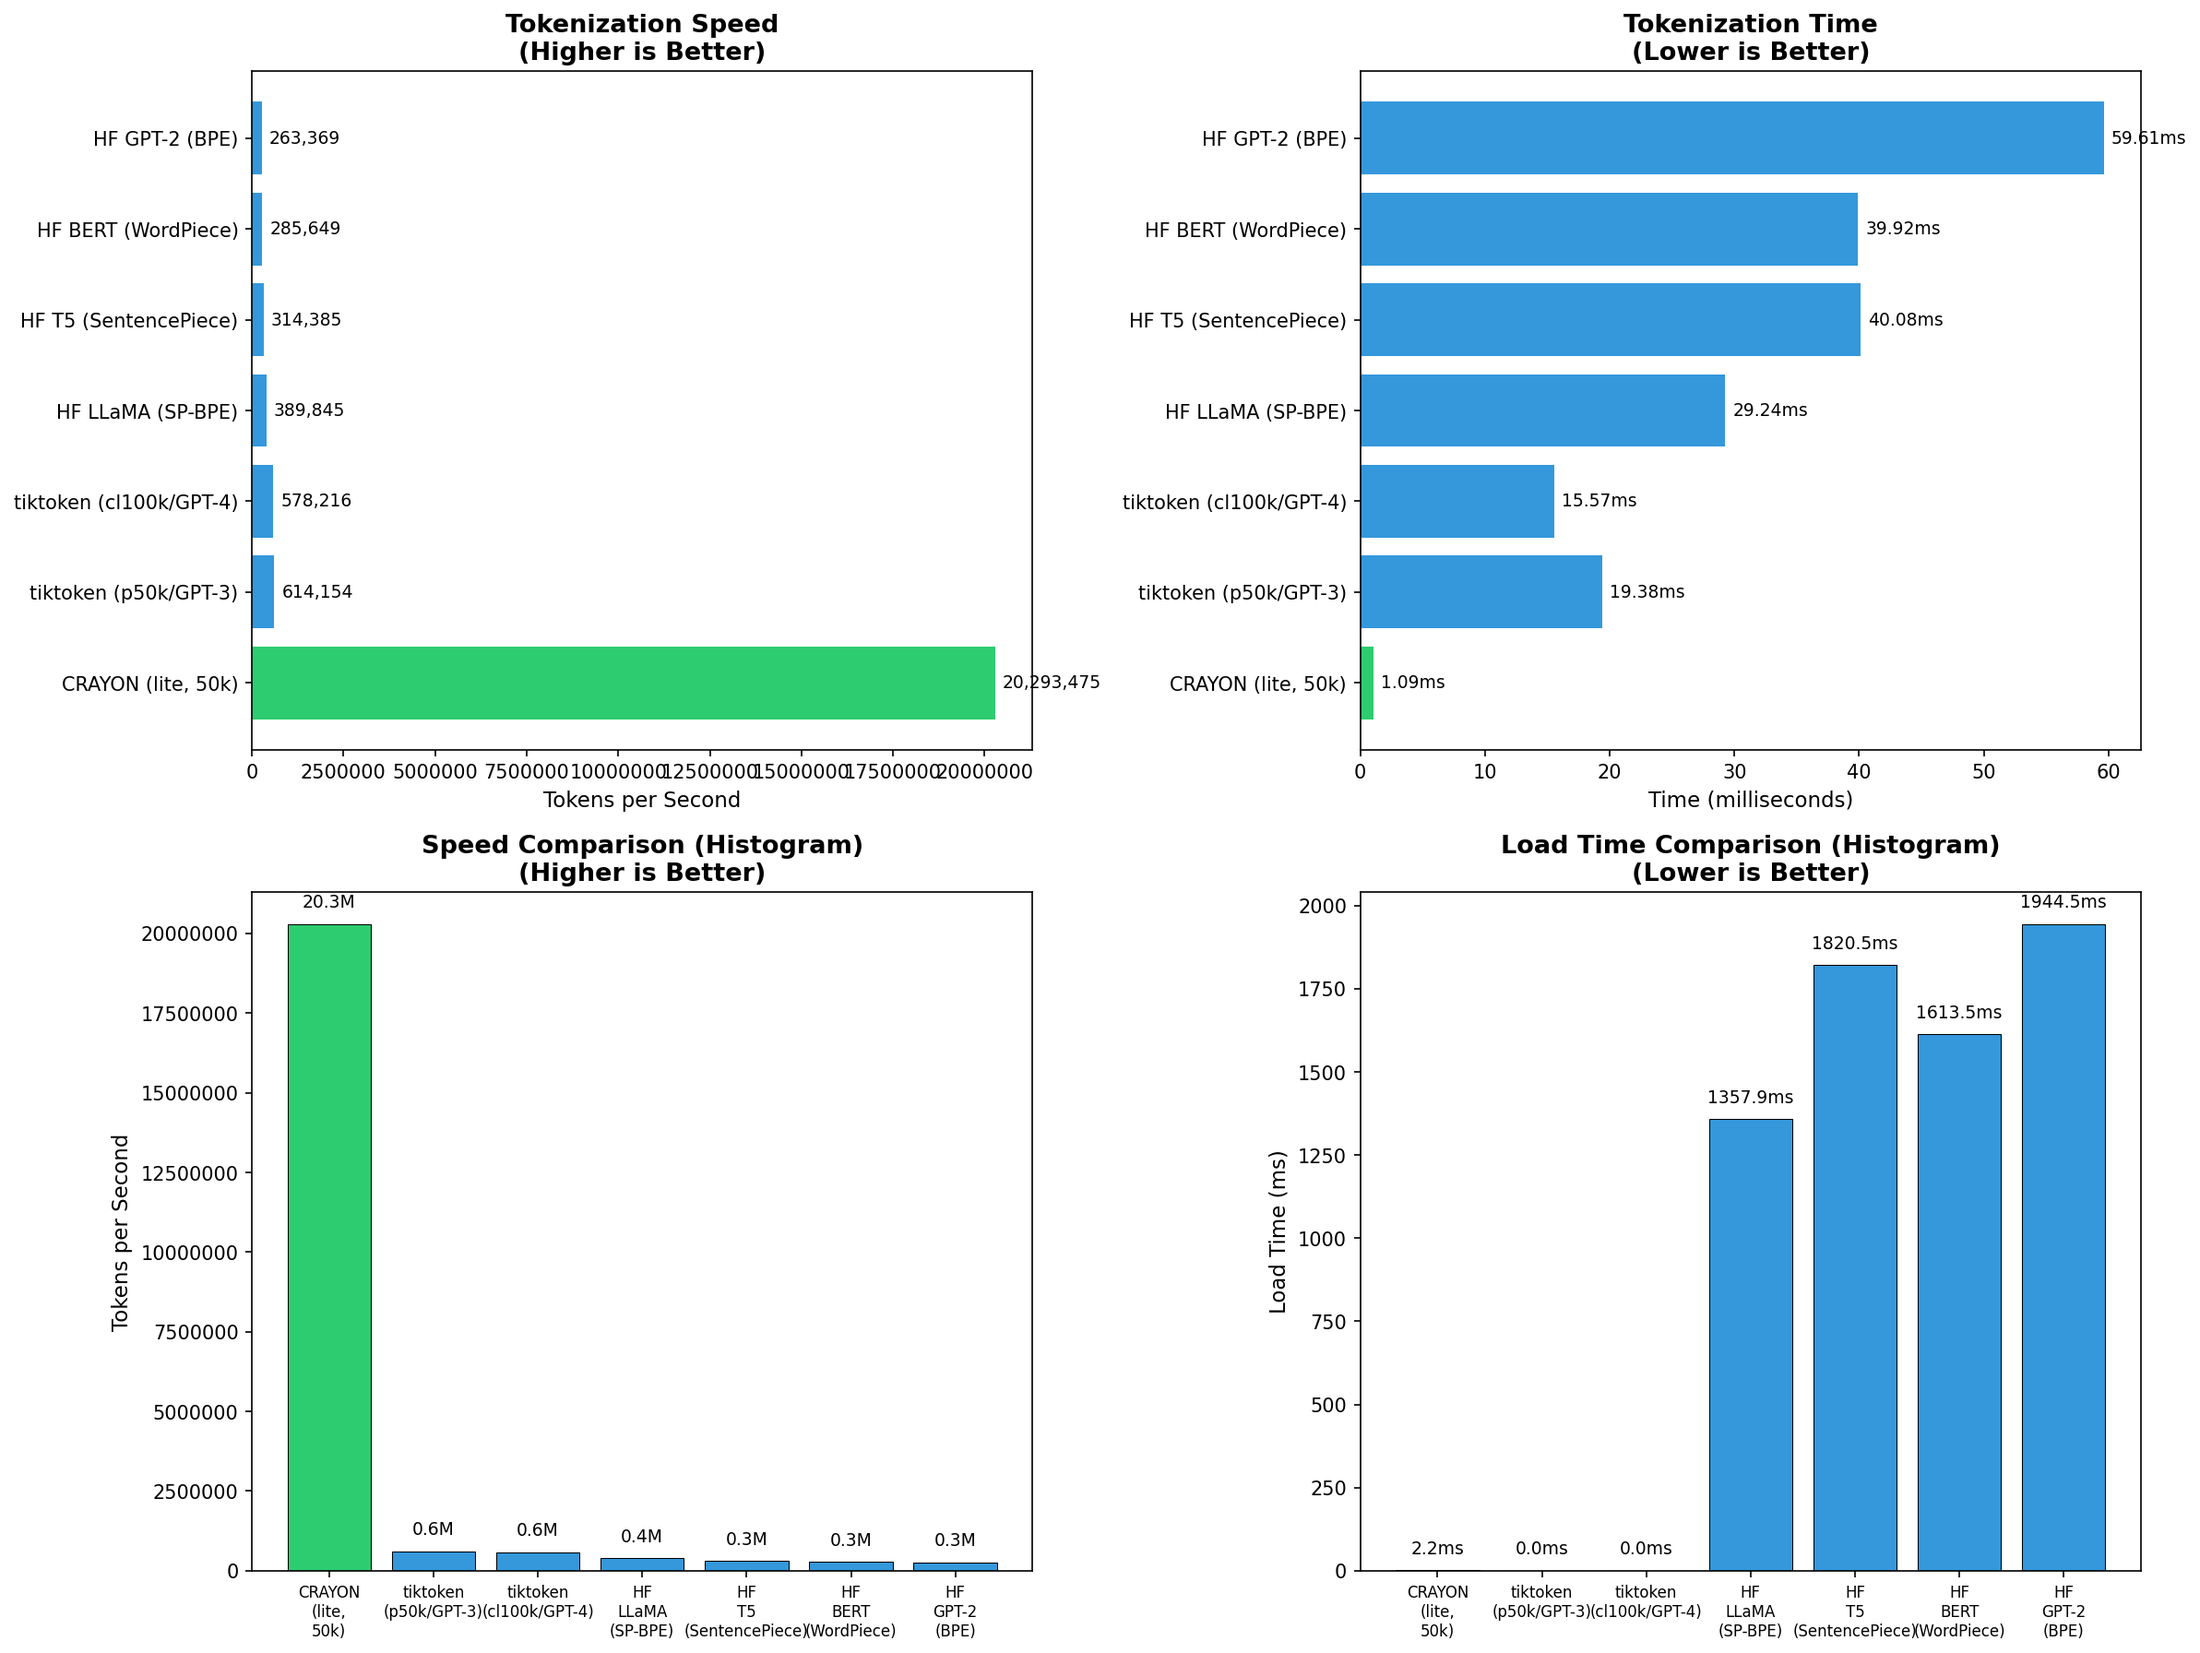
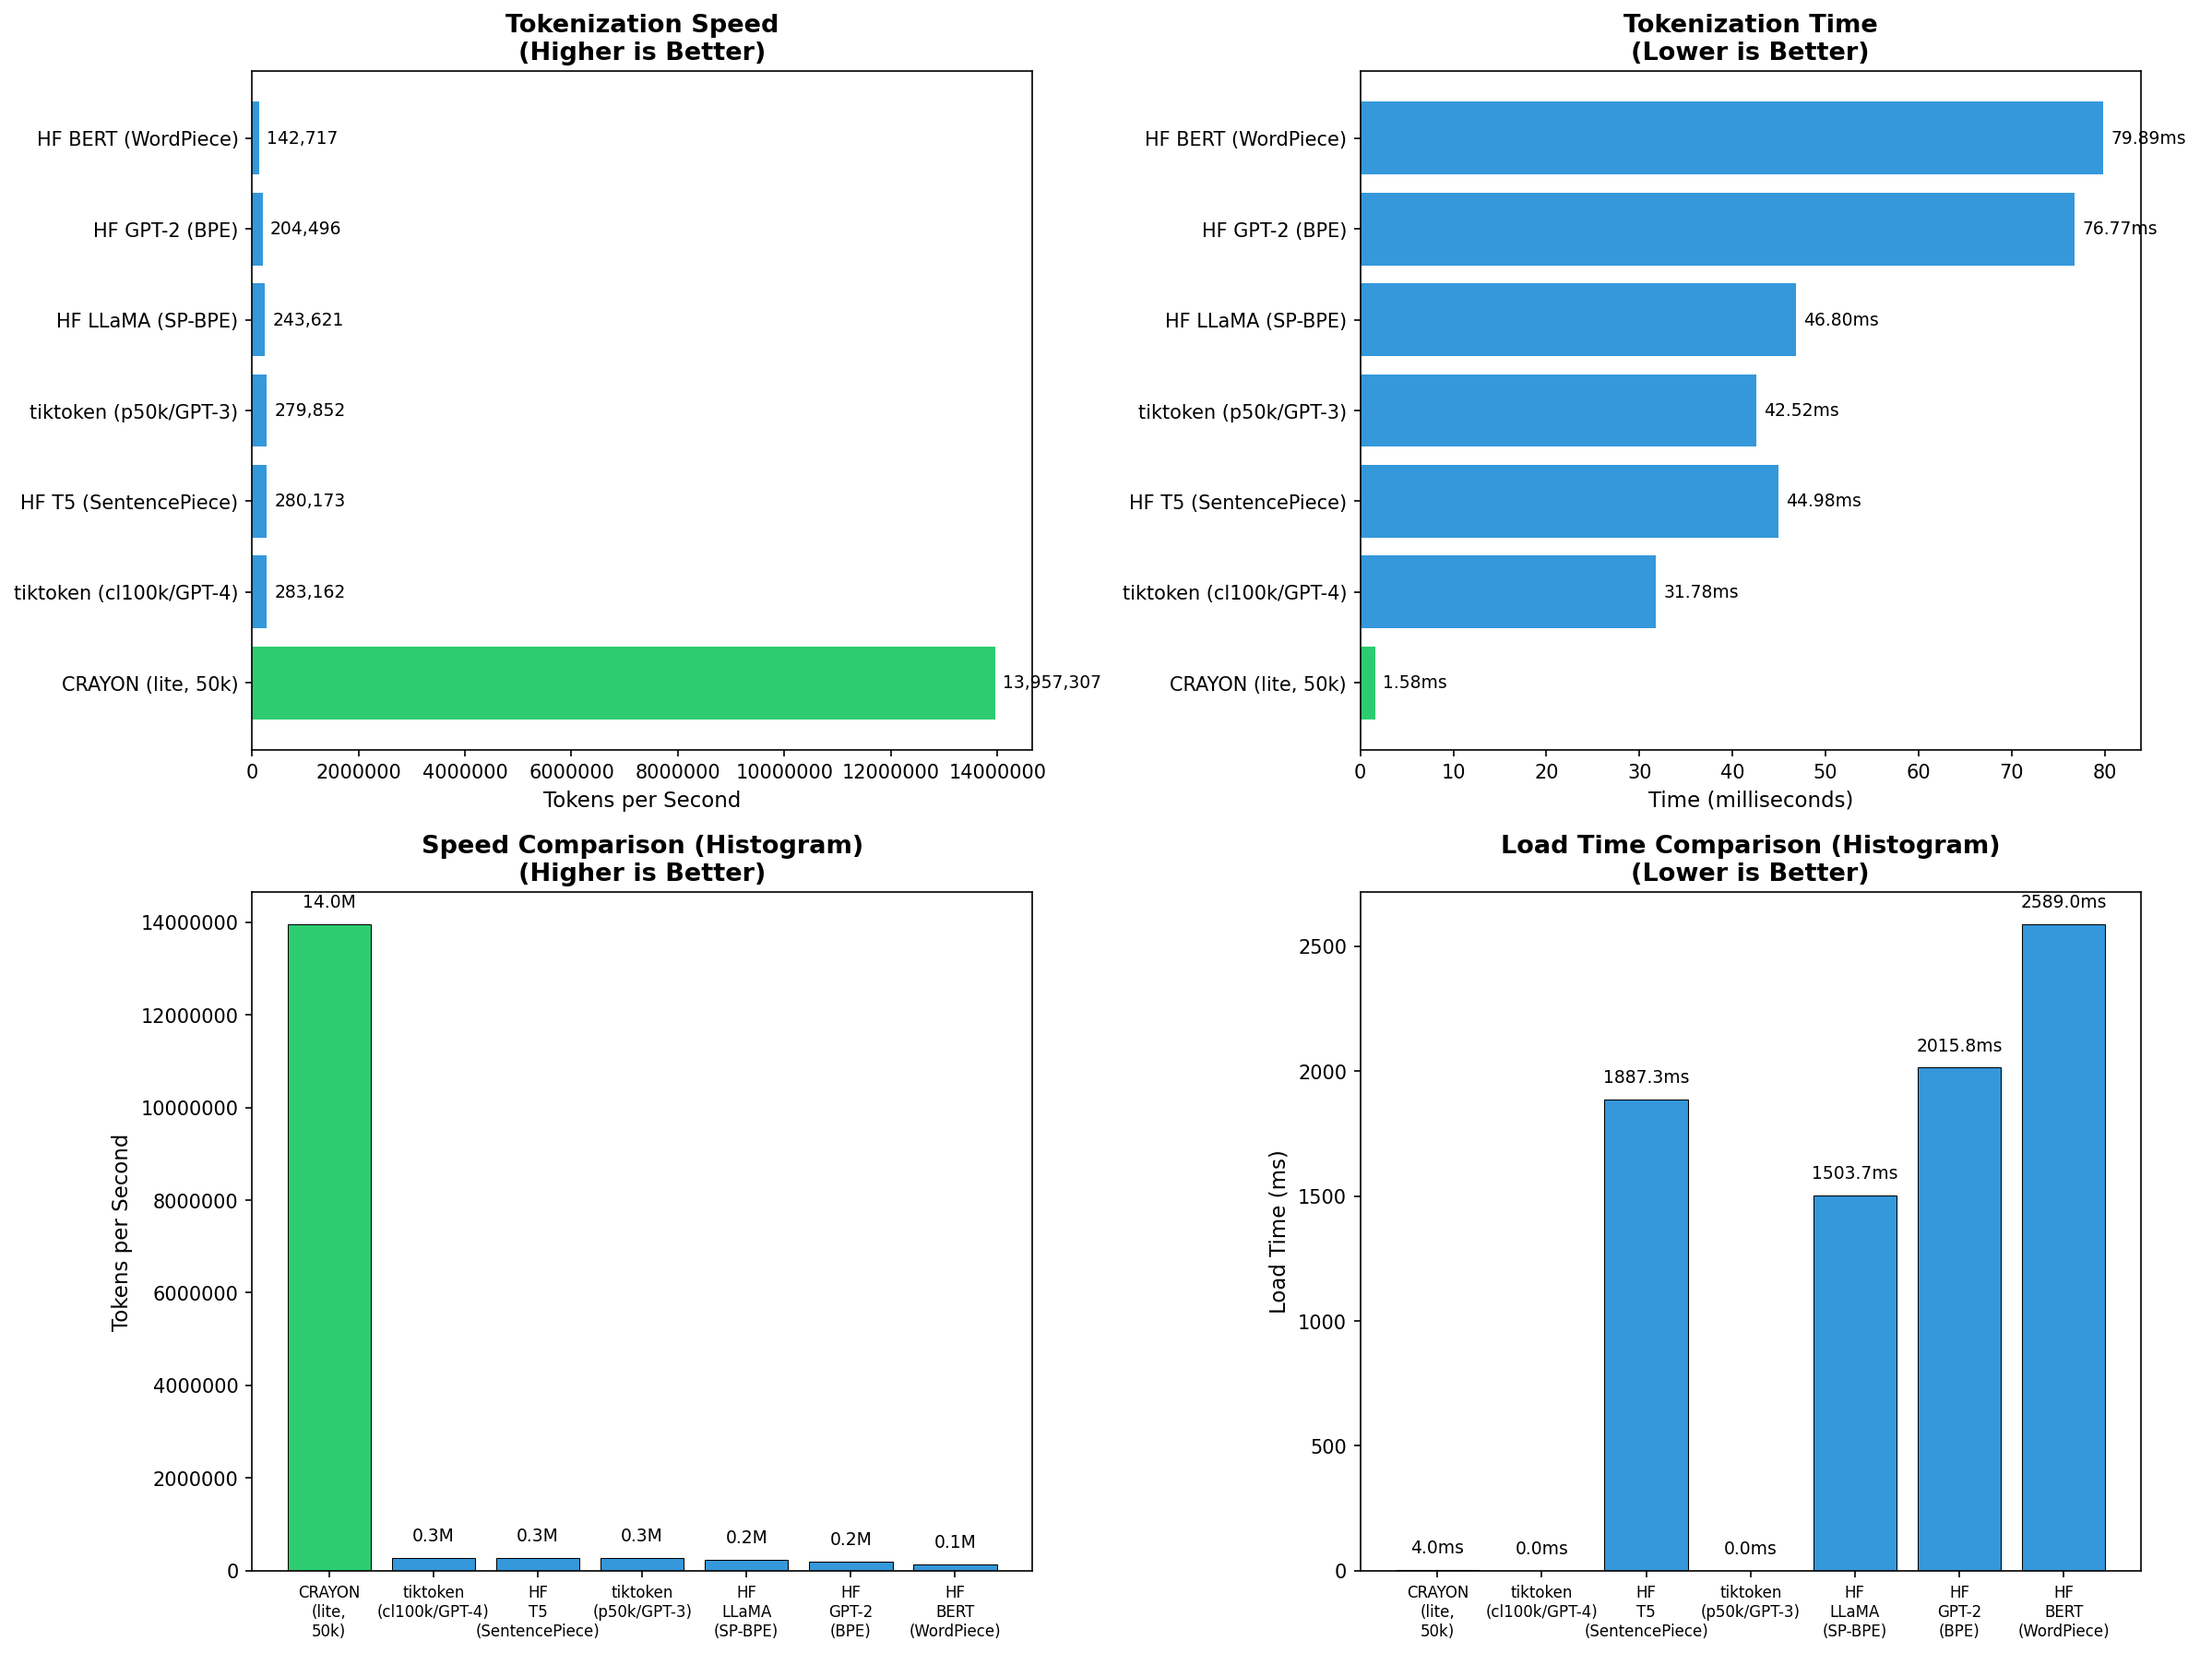
pypi try3

diff --git a/colab_benchmark.py b/colab_benchmark.py
@@ -2,11 +2,19 @@ try:
     import tiktoken
     import transformers
     import crayon
+    from importlib.metadata import version
+    if version("xerv-crayon") < "2.0.3":
+        raise ImportError("Old version detected")
 except ImportError:
     import subprocess
     import sys
-    print("Installing dependencies...")
-    subprocess.check_call([sys.executable, "-m", "pip", "install", "xerv-crayon", "tiktoken", "transformers"])
+    import os
+    print("Installing xerv-crayon>=2.0.3...")
+    subprocess.check_call([sys.executable, "-m", "pip", "install", "--upgrade", "xerv-crayon>=2.0.3", "tiktoken", "transformers"])
+    print("Installation complete. PLEASE RESTART RUNTIME (Runtime > Restart Session) and run this cell again.")
+    # Attempt to kill own process to force restart in some envs
+    # os.kill(os.getpid(), 9)
+    sys.exit(0)
 
 import time
 import os

diff --git a/setup.py b/setup.py
@@ -107,7 +107,7 @@ def get_long_description():
 if __name__ == '__main__':
     setup(
         name='xerv-crayon',
-        version='2.0.1',
+        version='2.0.3',
         description='Production-grade tokenizer achieving >16M tokens/s via AVX2/SIMD optimizations.',
         long_description=get_long_description(),
         long_description_content_type='text/markdown',

diff --git a/src/crayon/__init__.py b/src/crayon/__init__.py
@@ -33,7 +33,7 @@ from .concurrency.pipeline import PipelineTokenizer
 from .memory.zerocopy import ZeroCopyTokenizer
 from .training import train_vocabulary, build_default_vocabulary
 
-__version__ = "2.0.1"
+__version__ = "2.0.3"
 __author__ = "Xerv Research Engineering Division"
 
 __all__ = [

diff --git a/src/crayon/c_ext/engine.cpp b/src/crayon/c_ext/engine.cpp
@@ -7,6 +7,7 @@
  * - Branchless State Transitions
  */
 
+#define PY_SSIZE_T_CLEAN
 #include <Python.h>
 #include <vector>
 #include <iostream>

diff --git a/src/crayon/resources/__init__.py b/src/crayon/resources/__init__.py
@@ -1,0 +1,4 @@
+"""
+Resource management for Crayon.
+"""
+from .resources import check_resource_availability, build_and_cache_profile

diff --git a/src/crayon/resources/dat/__init__.py b/src/crayon/resources/dat/__init__.py
@@ -1,0 +1,3 @@
+"""
+Binary vocabulary data package.
+"""

diff --git a/BENCHMARK_RESULTS.md b/BENCHMARK_RESULTS.md
@@ -2,7 +2,7 @@
 
 **100% HONEST. NO SUGARCOATING. DATA-DRIVEN.**
 
-**Date:** 2026-01-23 15:29:11
+**Date:** 2026-01-23 16:18:28
 
 **Test Text Size:** 30,800 bytes (30.1 KB)
 
@@ -14,13 +14,13 @@
 
 | Tokenizer | Vocab Size | Token Count | Tokens/sec | MB/sec | Load Time | Avg Time | Min Time | Max Time |
 | :--- | ---: | ---: | ---: | ---: | ---: | ---: | ---: | ---: |
-| **CRAYON (lite, 50k)** | 50,000 | 22,100 | 20,293,475 | 26.97 | 2.18ms | 1.09ms | 0.63ms | 1.52ms |
-| **tiktoken (p50k/GPT-3)** | 50,000 | 11,900 | 614,154 | 1.52 | 0.01ms | 19.38ms | 13.81ms | 27.36ms |
-| **tiktoken (cl100k/GPT-4)** | 100,000 | 9,000 | 578,216 | 1.89 | 0.01ms | 15.57ms | 12.40ms | 20.60ms |
-| **HF LLaMA (SP-BPE)** | 32,000 | 11,401 | 389,845 | 1.00 | 1357.85ms | 29.24ms | 25.61ms | 36.08ms |
-| **HF T5 (SentencePiece)** | 32,000 | 12,601 | 314,385 | 0.73 | 1820.48ms | 40.08ms | 34.52ms | 49.43ms |
-| **HF BERT (WordPiece)** | 30,522 | 11,402 | 285,649 | 0.74 | 1613.55ms | 39.92ms | 35.08ms | 55.06ms |
-| **HF GPT-2 (BPE)** | 50,257 | 15,700 | 263,369 | 0.49 | 1944.51ms | 59.61ms | 44.19ms | 72.57ms |
+| **CRAYON (lite, 50k)** | 50,000 | 22,100 | 13,957,307 | 18.55 | 4.05ms | 1.58ms | 1.04ms | 2.00ms |
+| **tiktoken (cl100k/GPT-4)** | 100,000 | 9,000 | 283,162 | 0.92 | 0.01ms | 31.78ms | 20.92ms | 46.89ms |
+| **HF T5 (SentencePiece)** | 32,000 | 12,601 | 280,173 | 0.65 | 1887.32ms | 44.98ms | 35.06ms | 55.59ms |
+| **tiktoken (p50k/GPT-3)** | 50,000 | 11,900 | 279,852 | 0.69 | 0.01ms | 42.52ms | 32.64ms | 53.30ms |
+| **HF LLaMA (SP-BPE)** | 32,000 | 11,401 | 243,621 | 0.63 | 1503.70ms | 46.80ms | 29.94ms | 61.36ms |
+| **HF GPT-2 (BPE)** | 50,257 | 15,700 | 204,496 | 0.38 | 2015.81ms | 76.77ms | 61.45ms | 94.46ms |
+| **HF BERT (WordPiece)** | 30,522 | 11,402 | 142,717 | 0.37 | 2588.96ms | 79.89ms | 57.49ms | 192.06ms |
 
 ---
 
@@ -35,12 +35,12 @@
 | Tokenizer | Speed vs CRAYON |
 | :--- | ---: |
 | **CRAYON (lite, 50k)** | **baseline** |
-| tiktoken (p50k/GPT-3) | 33.0x slower |
-| tiktoken (cl100k/GPT-4) | 35.1x slower |
-| HF LLaMA (SP-BPE) | 52.1x slower |
-| HF T5 (SentencePiece) | 64.5x slower |
-| HF BERT (WordPiece) | 71.0x slower |
-| HF GPT-2 (BPE) | 77.1x slower |
+| tiktoken (cl100k/GPT-4) | 49.3x slower |
+| HF T5 (SentencePiece) | 49.8x slower |
+| tiktoken (p50k/GPT-3) | 49.9x slower |
+| HF LLaMA (SP-BPE) | 57.3x slower |
+| HF GPT-2 (BPE) | 68.3x slower |
+| HF BERT (WordPiece) | 97.8x slower |
 
 ---
 
